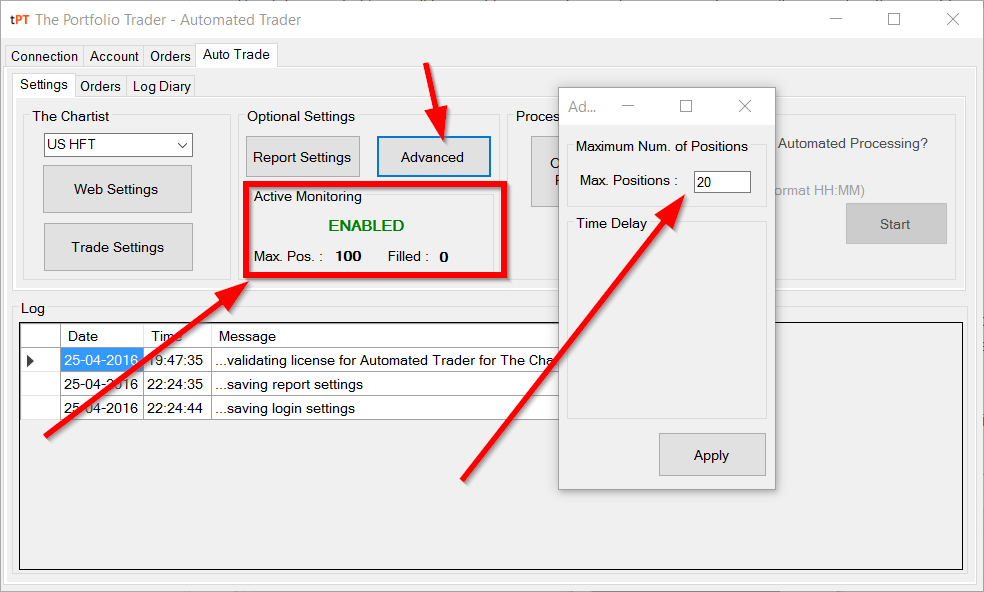
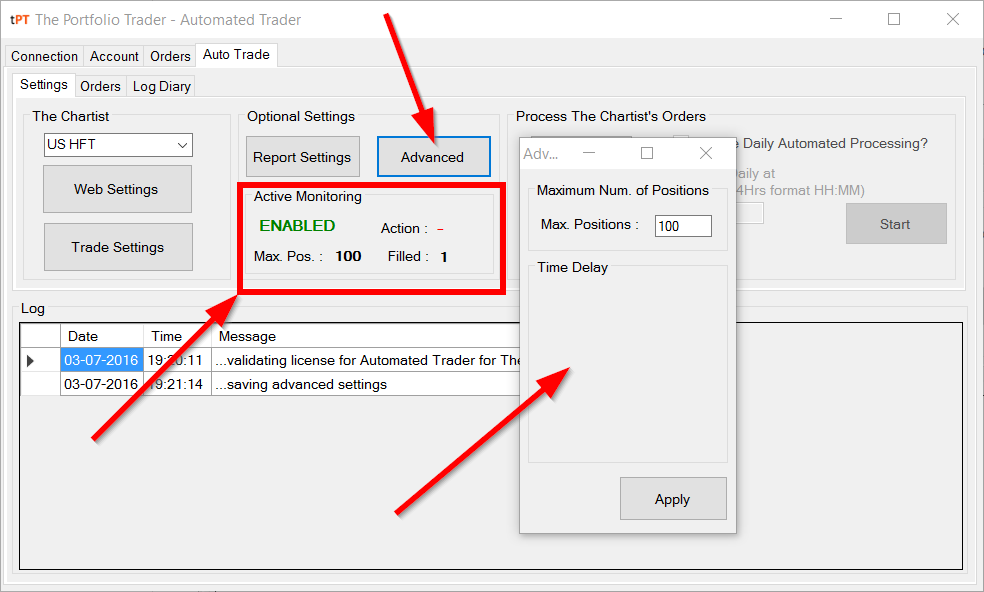
* updates

Changed region(s): [[0.0305, 0.1216, 0.7927, 0.9122], [0.3963, 0.5169, 0.6098, 0.8818], [0.3963, 0.0304, 0.4573, 0.2432]]

diff --git a/README.md b/README.md
@@ -33,6 +33,9 @@ Visit [Automated Trader for The Chartist](http://www.theportfoliotrader.com/down
 > **Note**:
 > * Please use a valid email address while registering to download the software.
 > * License key will be generated and emailed to your email address. You will have to input this license key when prompted during the first run.
+> * **Active Monitoring**: Current implementation only Cancels remaining BUY orders if the condition is satisfied. Users should be aware that it currently does not SELL excess filled orders.
+> * **Use first on your Paper Trading account**: We advise users to first use this software on their demo or paper trading account and transition to actual trading account only after they are convinced that the software is doing what they expect the software to do.
+> * **Be aware that Active Monitoring might interfere with orders other than The Chartist's orders**
 > * In case you want to run this software on multiple computers then increase the number of license's required during the registration process or contact info@theportfoliotrader.com for assistance.
 > * Dependency on Internet Explorer is temporary, I have included it so that the user can visualise the website login and file access actions.
 > * _This application should run fine on LINUX and OS X/Mac OS via [Mono](http://www.mono-project.com/). Due to the dependency of this version on Internet Explorer it might be a difficult ask. I have not tested this thoroughly. Contact info@theportfoliotrader.com if you want me to perform a thorough testing on LINUX or OS X/Mac OS. Next version of this software will not have Internet Explorer dependency._
@@ -181,7 +184,7 @@ This provides an user-interface to alter settings for trading using [**The Chart
 
 <br>
 * **Active Monitoring** [Optional Settings]
-    * Displays number of **Max. Positions** and number of **Filled** positions
+    * Displays number of status of Active Monitoring and state of **Action**, **Max. Positions** and number of **Filled** positions
 	* Automated Trader must stay connected to IB Gateway/TWS as long as the market is open for **Active Monitoring** to work
 	
 <br>
@@ -214,7 +217,7 @@ This provides an user-interface to alter settings for trading using [**The Chart
 		* Useful for Margin account holders
 	    * Will perform **Active Monitoring** if **Max. Pos** is greater than **0**
         * **Active Monitoring** will Cancel unfilled BUY orders if number of filled orders reach your maximum imposed limited
-        * **Active Monitoring** will generate and place SELL orders if number of filled orders exceed your maximum imposed limit.The filled BUY orders that are to be replaced on the market as SELL orders are selected based on their time-stamps i.e. last filled orders are placed as SELL orders first.   		
+        * **Yet to be implemented** _**Active Monitoring** will generate and place SELL orders if number of filled orders exceed your maximum imposed limit.The filled BUY orders that are to be replaced on the market as SELL orders are selected based on their time-stamps i.e. last filled orders are placed as SELL orders first._   		
   
   
 >**Shuffled BUY Orders**:
@@ -481,7 +484,8 @@ IMPORTANT: Automated Trader must stay connected to IB Gateway/TWS as long as the
 
 
 >**Note**:
->* **Active Monitoring** is always ENABLED
+>* When the application is first connected and subscribed to account information via IB Gateway, **Active Monitoring** will perform its monitoring and the status of **Action** will be changed to **Taken**.  
+>* **Active Monitoring** is always ENABLED. To DISABLE **Active Monitoring** set **Max. Positions** to **-1**
 >* Set **Max. Positions** to **0** if you do not want software to perform active monitoring
 
 
@@ -533,7 +537,7 @@ To View details of order management and daily orders:
 
 To View details of daily logs:
 * Go to **Auto Trade** :arrow_right: **Log Diary**
-
+* **Log Diary** has a column for **Equity** to help you keep track of performance
 ![tc_logdiary](https://github.com/virusme/Automated-Trader-for-The-Chartist/blob/master/screenshots/_tc_logdiary.png)
 
 
